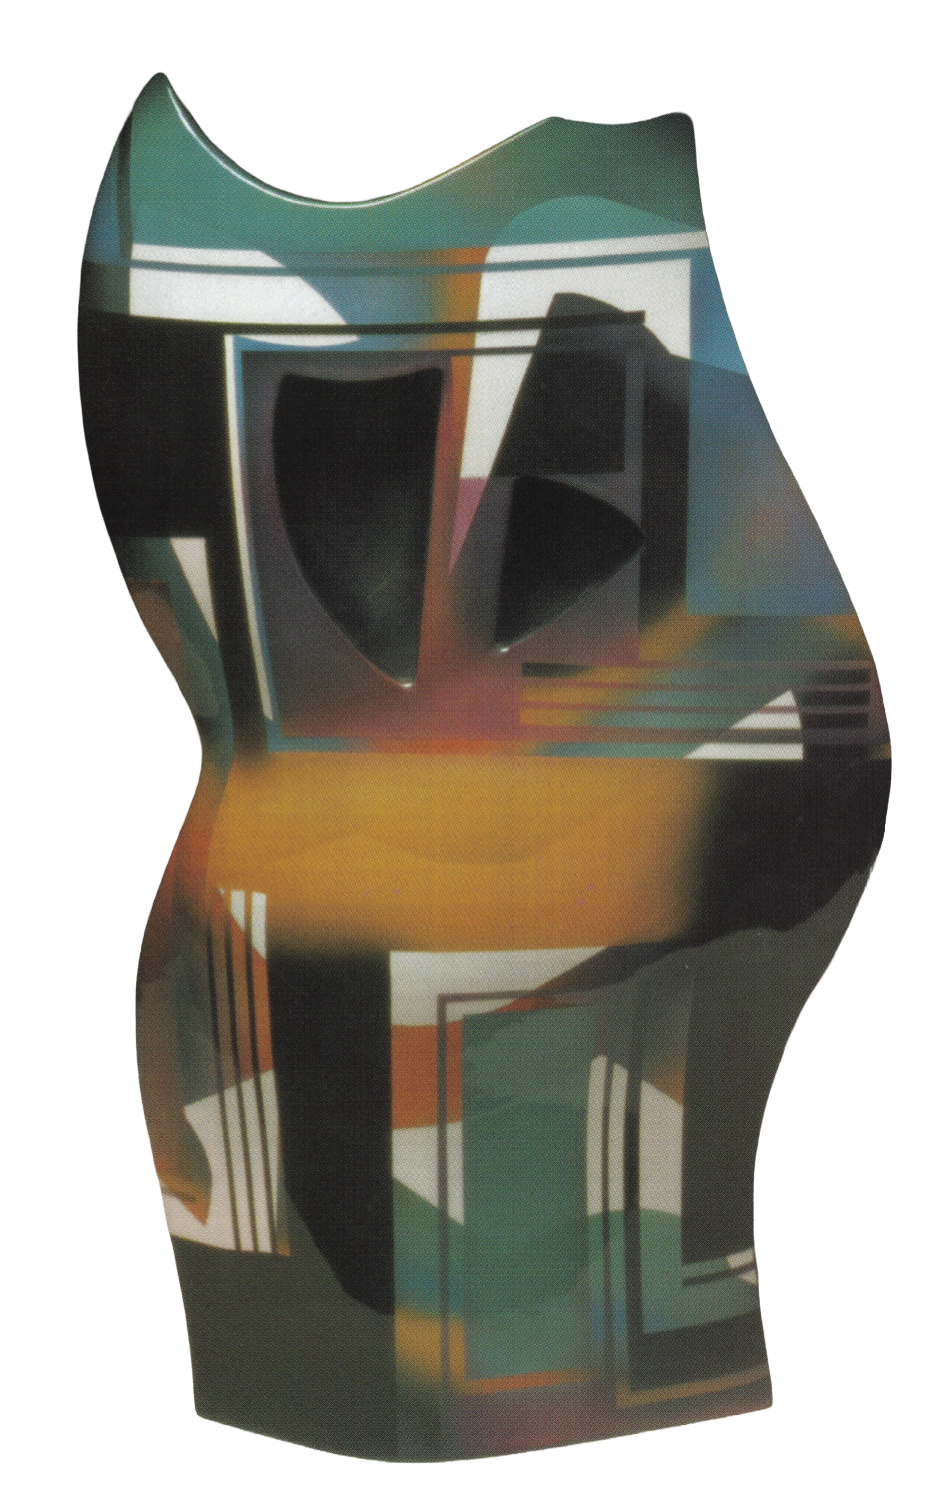
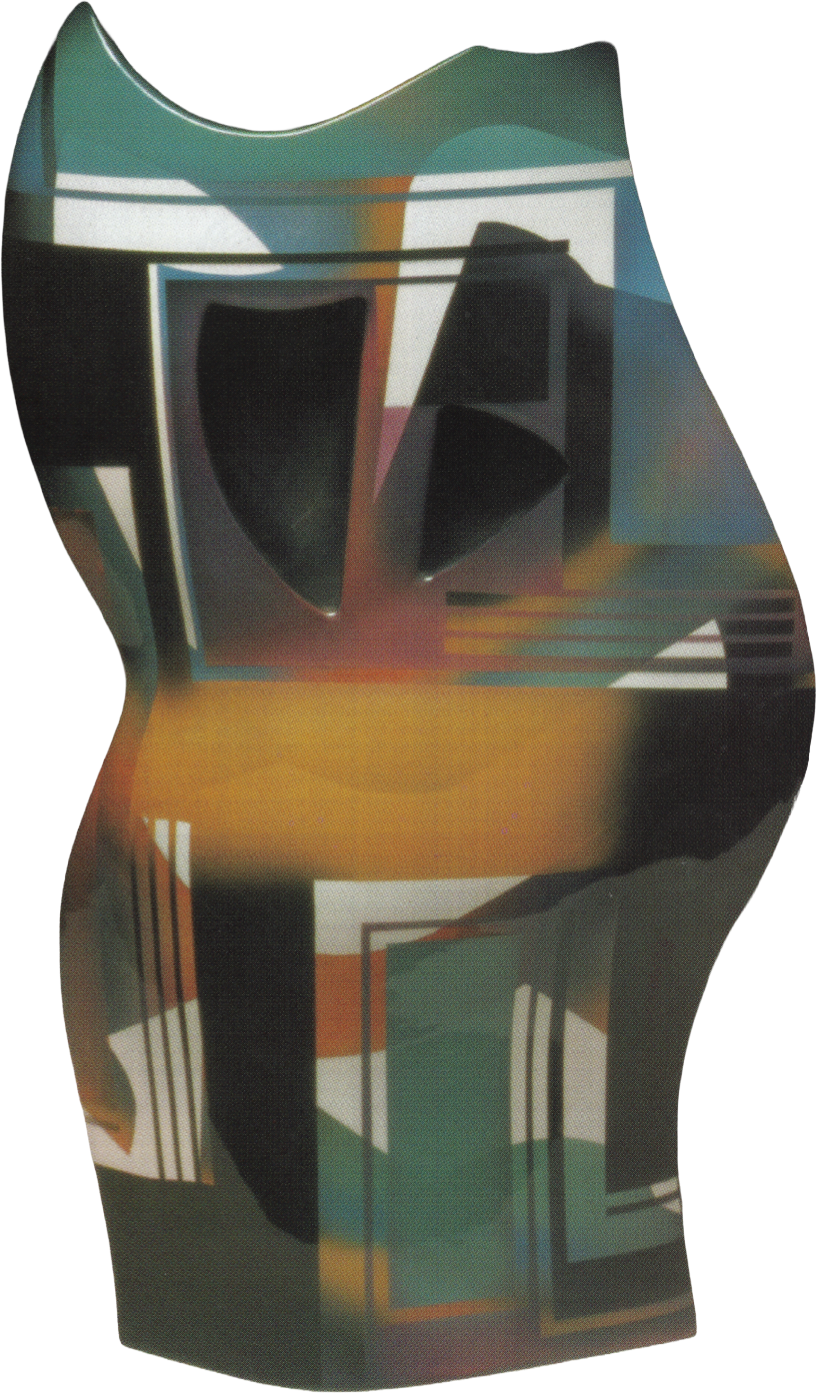
Updating Smaller Screen Issues

diff --git a/css/style.css b/css/style.css
@@ -291,7 +291,7 @@ body:has(.poem-stage .flashlight-poem-body) {
   width: 100%;
   flex-direction: column;
   align-items: center;
-  gap: clamp(50px, 8vh, 120px);
+  gap: clamp(42px, 7vh, 96px);
   animation: vaseColumnScroll 26s linear infinite;
 }
 
@@ -304,7 +304,9 @@ body:has(.poem-stage .flashlight-poem-body) {
 .home-vase {
   position: relative;
   flex: 0 0 auto;
-  width: min(80%, 150px);
+  width: auto;
+  height: clamp(112px, 17vh, 170px);
+  max-width: 80%;
   margin: 0;
   filter: drop-shadow(0 10px 13px rgba(57, 42, 22, 0.16));
 }
@@ -322,8 +324,9 @@ body:has(.poem-stage .flashlight-poem-body) {
 .home-vase img {
   position: relative;
   display: block;
-  width: 100%;
-  height: auto;
+  width: auto;
+  height: 100%;
+  max-width: 100%;
 }
 
 .home-content,
@@ -2326,7 +2329,8 @@ body:has(.poem-stage .flashlight-poem-body) {
   }
 
   .home-vase {
-    width: min(78%, 108px);
+    height: clamp(100px, 16vh, 136px);
+    max-width: 78%;
   }
 
   .essays-page,
